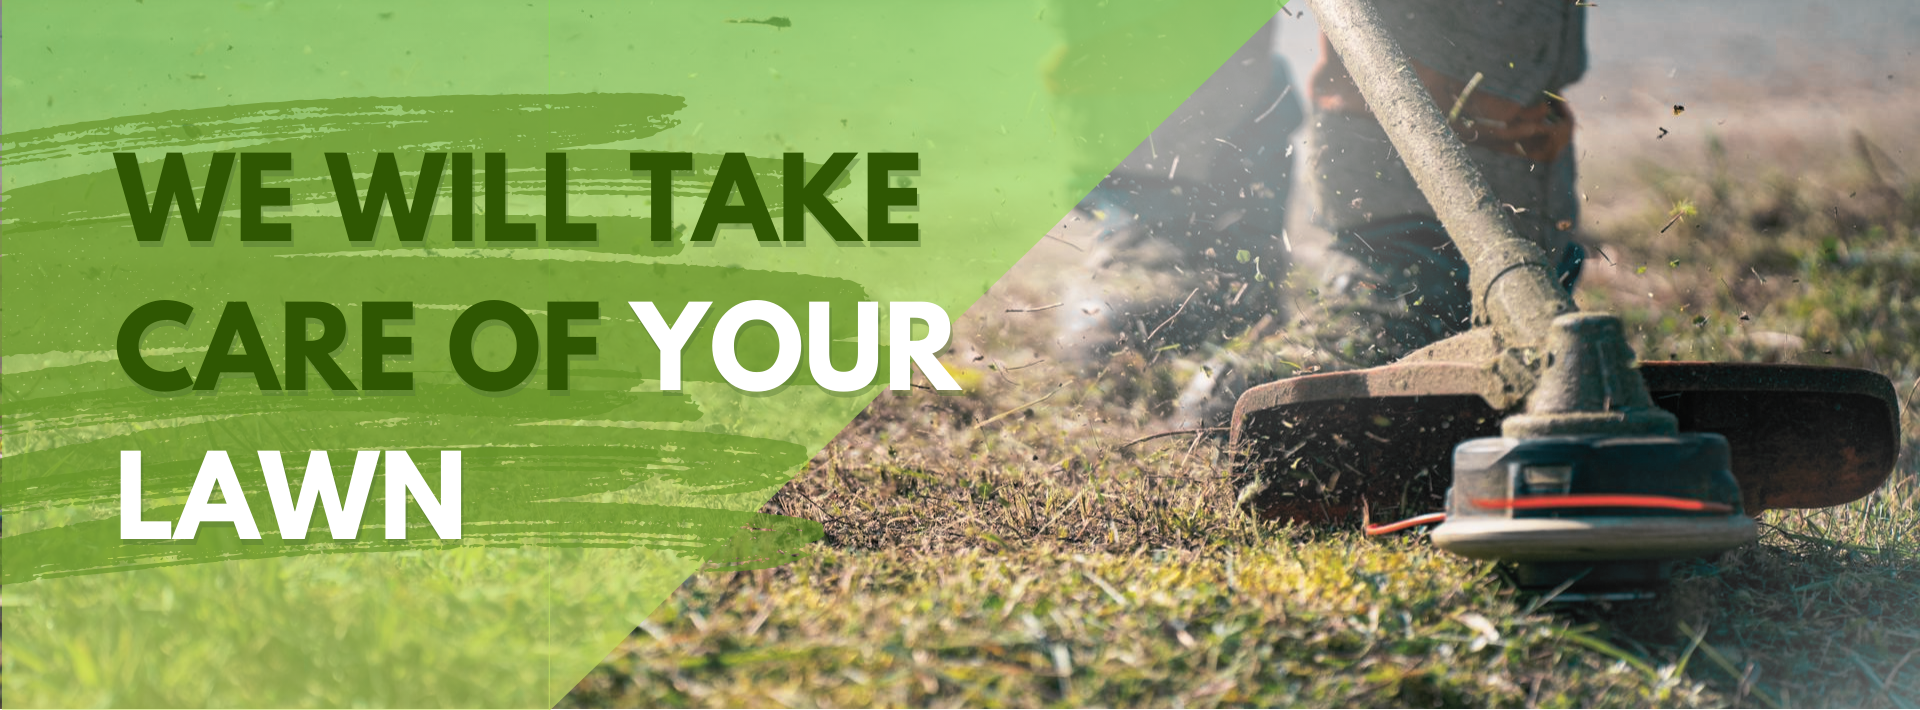
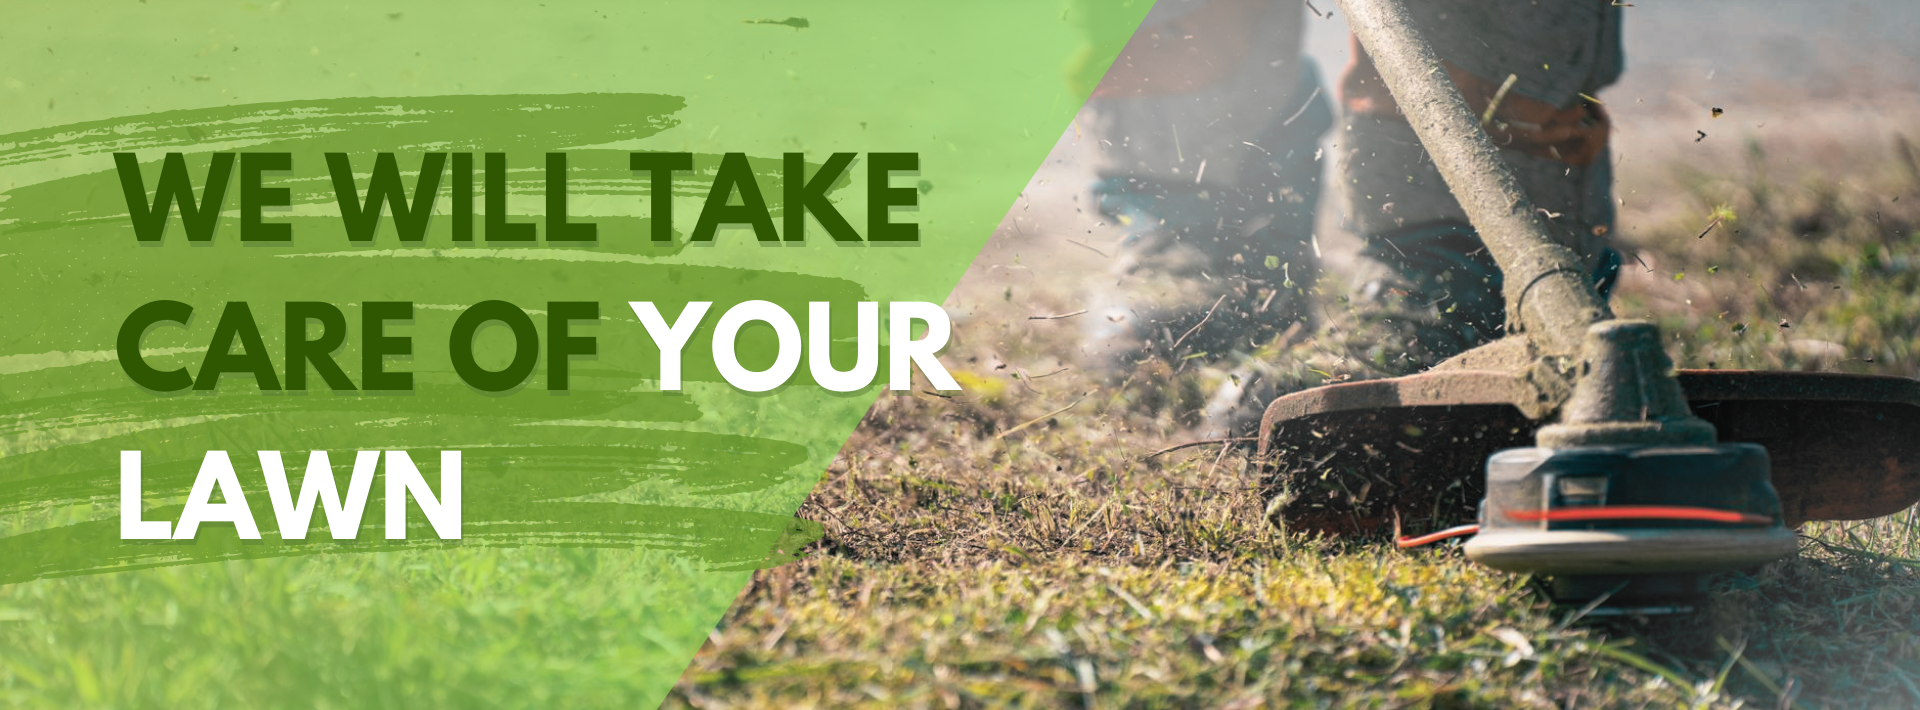
Update

diff --git a/app/components/sectionWelcome.js b/app/components/sectionWelcome.js
@@ -30,51 +30,46 @@ const SectionWelcome = () => {
   ];
 
   return (
-    <section className="relative">
-      <div 
-        className="w-full"
-        style={{
-          aspectRatio: '16 / 9', // Standard widescreen aspect ratio for new banners
-          minHeight: '300px', // Fallback for older browsers
+    <section className="relative w-full">
+      <Swiper
+        modules={[EffectFade, Navigation, Pagination, Autoplay]}
+        spaceBetween={0}
+        effect="fade"
+        pagination={{
+          clickable: true,
+          type: 'bullets',
         }}
+        loop
+        autoplay={{
+          delay: 5000,
+          disableOnInteraction: true,
+        }}
+        className="w-full"
       >
-        <Swiper
-          modules={[EffectFade, Navigation, Pagination, Autoplay]}
-          spaceBetween={0}
-          effect="fade"
-          pagination={{
-            clickable: true,
-            type: 'bullets',
-          }}
-          loop
-          autoplay={{
-            delay: 5000,
-            disableOnInteraction: true,
-          }}
-          className="h-full w-full"
-        >
-          {slides.map((slide) => (
-            <SwiperSlide key={slide.id} className="h-full">
-              <div
-                className="flex items-center justify-center h-full w-full"
+        {slides.map((slide) => (
+          <SwiperSlide key={slide.id}>
+            <div className="w-full">
+              <img
+                src={slide.background.replace('url(', '').replace(')', '')}
+                alt={`Slide ${slide.id}`}
+                className="w-full h-auto object-contain"
                 style={{
-                  backgroundImage: slide.background,
-                  backgroundSize: 'cover',
-                  backgroundPosition: 'center',
-                  width: '100%',
-                  height: '100%',
+                  display: 'block',
+                  maxWidth: '100%',
+                  height: 'auto',
                 }}
-              >
-                {slide.content && (
+              />
+              {slide.content && (
+                <div className="absolute inset-0 w-full h-full flex items-center justify-center">
                   <div className="w-full max-w-7xl mx-auto px-4 lg:px-8">
                     {slide.content}
                   </div>
-                )}
-              </div>
-            </SwiperSlide>
-          ))}
-        </Swiper>
-      </div>
+                </div>
+              )}
+            </div>
+          </SwiperSlide>
+        ))}
+      </Swiper>
     </section>
   );
 };

diff --git a/components/header.js b/components/header.js
@@ -393,7 +393,7 @@ export default function Header() {
               <div ref={mobileShopRef}>
                 {/* Button */}
                 <div
-                  className="relative overflow-hidden z-54 h-30 bg-[url('/images/header/navigation/grass.jpg')] bg-cover bg-center rounded-lg shadow-lg active:shadow-none transition active:scale-99"
+                  className="relative overflow-hidden z-54 h-30 bg-[url('/images/header/navigation/tips.jpg')] bg-cover bg-center rounded-lg shadow-lg active:shadow-none transition active:scale-99"
                   onClick={() => setShowMobileShopList((prev) => !prev)}
                   tabIndex={0}
                   role="button"
@@ -434,7 +434,7 @@ export default function Header() {
 
               {/* Tips Button */}
               <div
-                className="relative overflow-hidden h-30 mb-4 bg-[url('/images/header/navigation/tips.jpg')] bg-cover bg-center rounded-lg shadow-lg active:shadow-none transition active:scale-99"
+                className="relative overflow-hidden h-30 mb-4 bg-[url('/images/shop/grass.jpg')] bg-cover bg-center rounded-lg shadow-lg active:shadow-none transition active:scale-99"
                 onClick={() => window.location.href = '/tips'}
                 tabIndex={0}
                 role="button"

diff --git a/app/page.js b/app/page.js
@@ -14,7 +14,7 @@ export default function HomePage() {
     <div className='bg-[url("/images/backgrounds/SoilBackground.jpg")] bg-cover bg-center bg-fixed'>
       <Header />
       
-      <main className="mt-21 pt-8 lg:pt-16"> {/* padding for header + green bar */}
+      <main className="pt-21"> {/* padding for header + green bar */}
         <Welcome />
         <Prices />
         <Services />
